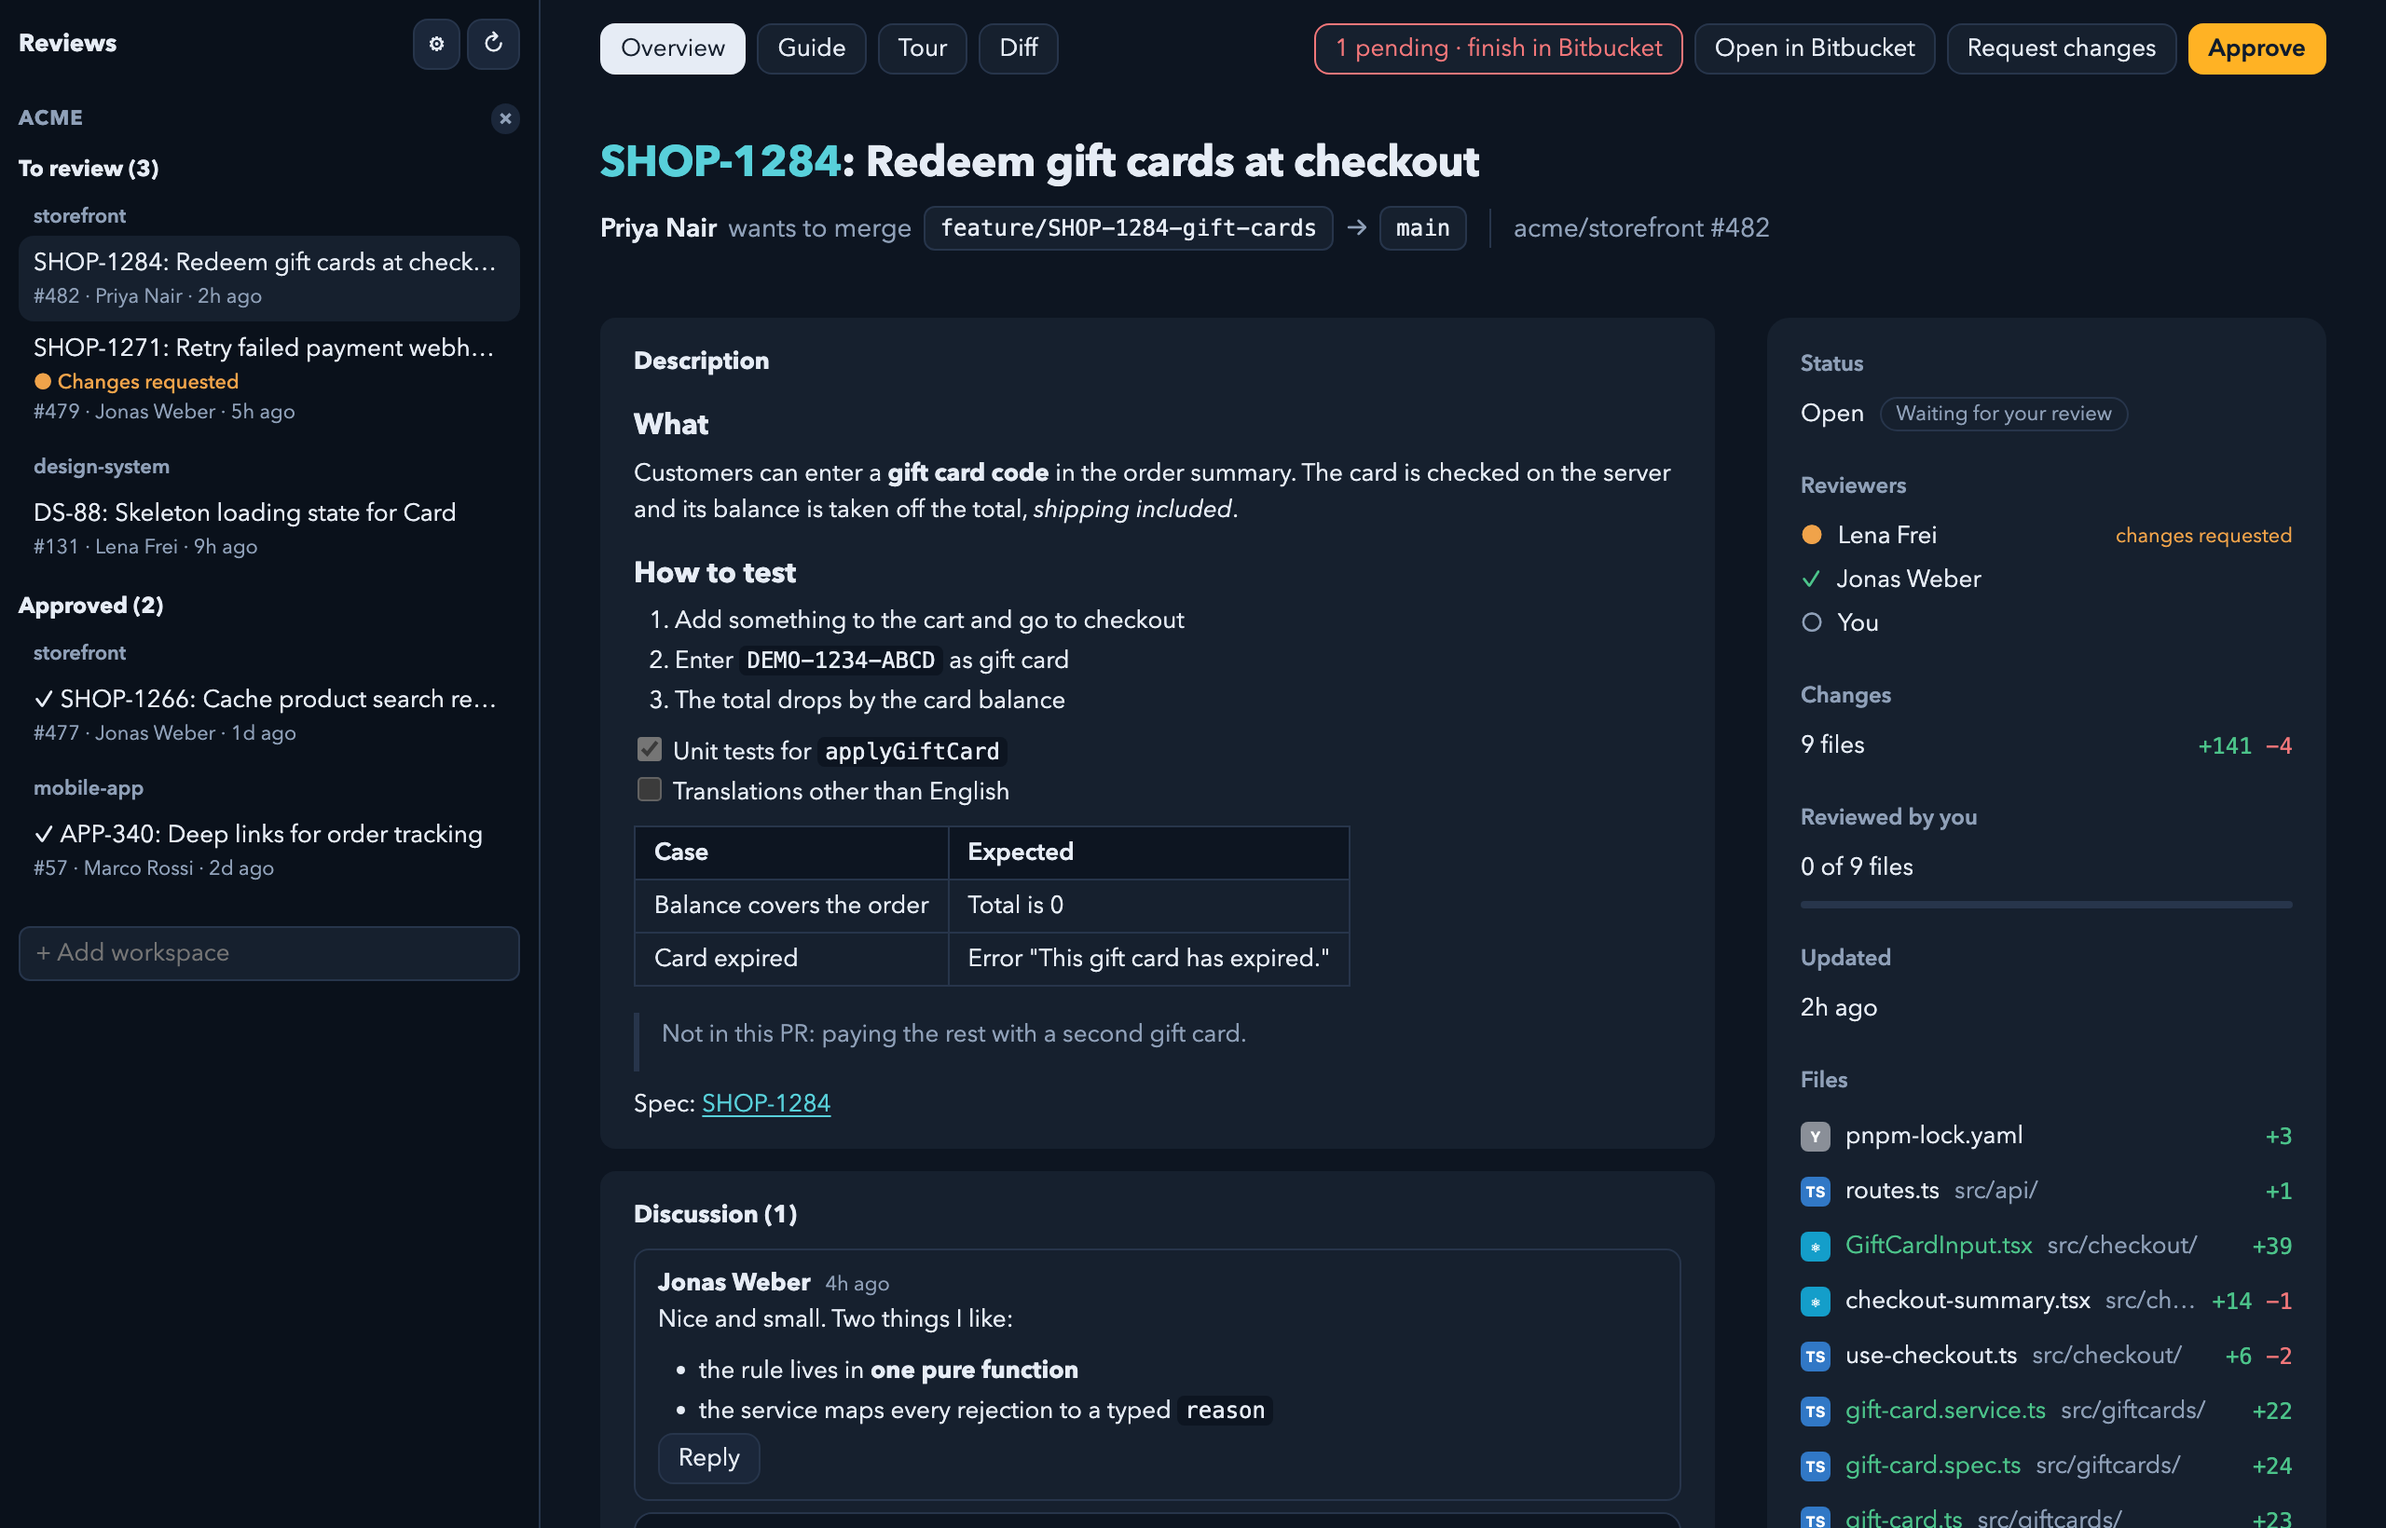
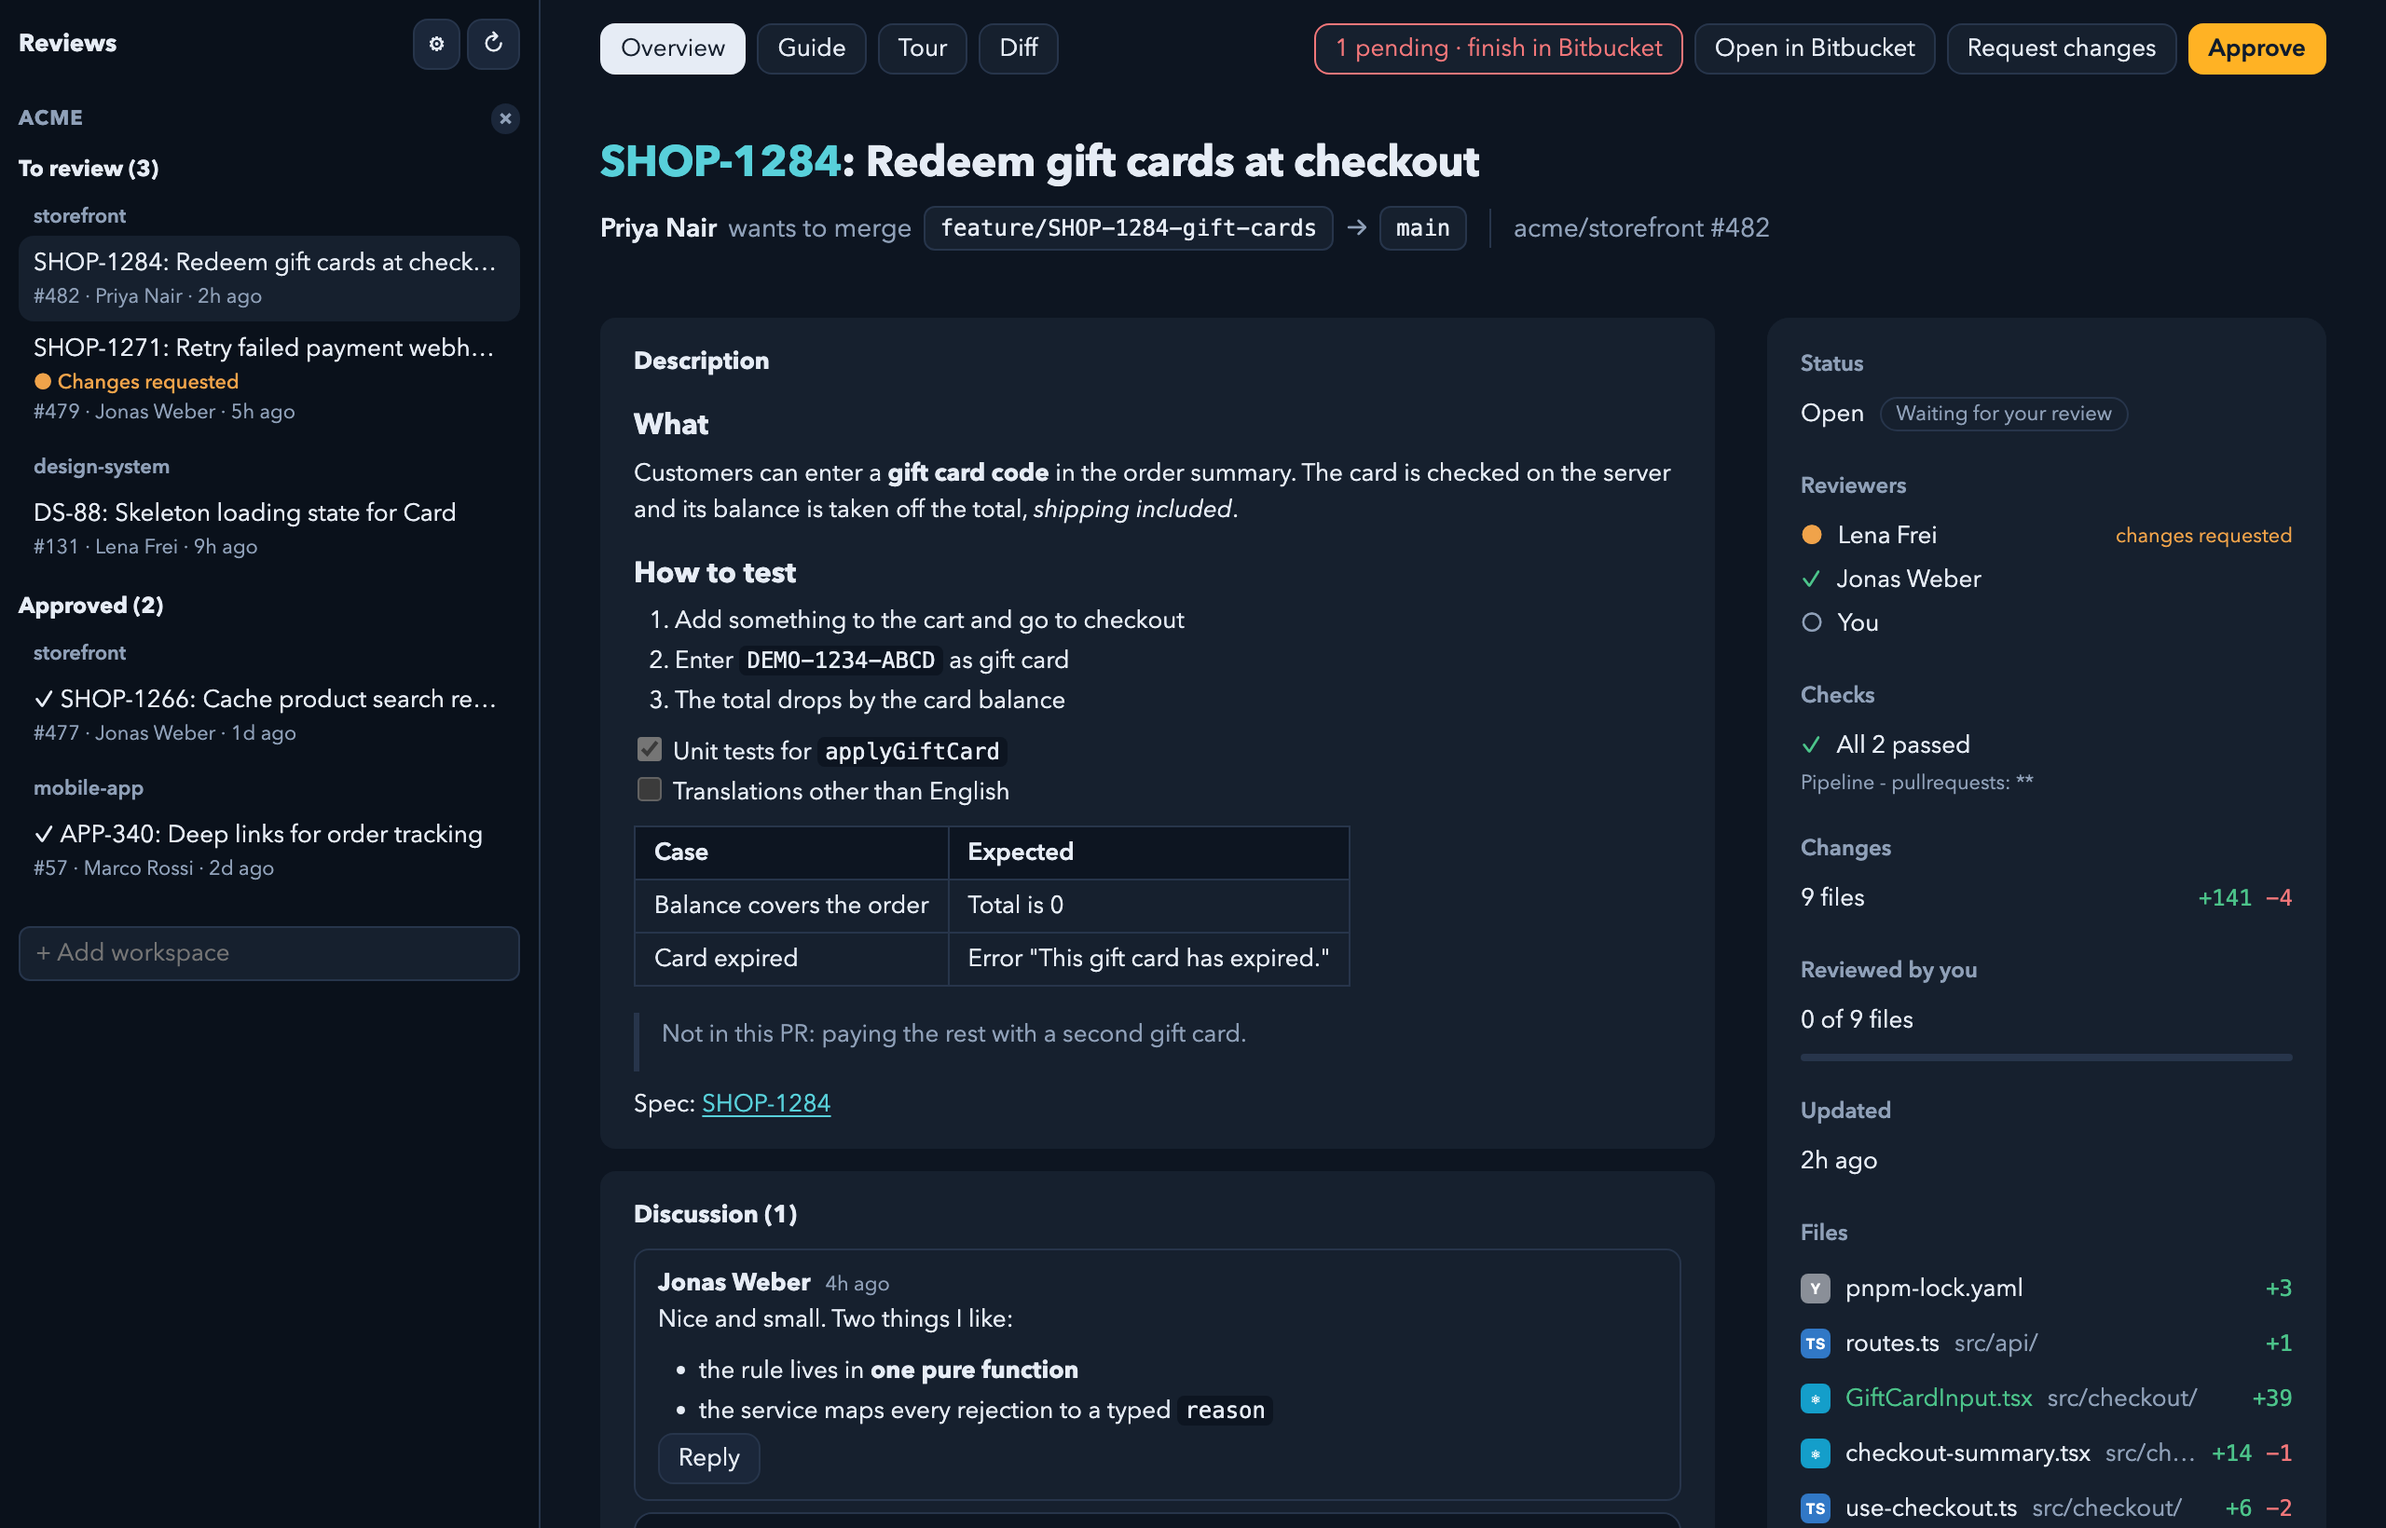
Overview fills the width, shows build checks; toolbar wraps

Changed region(s): [[0.75, 0.4665, 0.9688, 1.0], [0.9375, 0.9951, 0.9688, 1.0], [0.8125, 0.4976, 0.8438, 0.5287]]

diff --git a/ui/app.js b/ui/app.js
@@ -457,7 +457,7 @@ function threadEl(root, comments, post, lang) {
 }
 
 // The facts about a PR, in a column beside the overview: where it stands, who reviews it, how big it is, what it touches.
-function infoEl(pr, files, reviewed, mine, openFile) {
+function infoEl(pr, files, reviewed, mine, checks, openFile) {
   const order = { changes_requested: 0, approved: 1 };
   // Reviewers, plus anyone else who approved or asked for changes.
   const people = (pr.participants ?? []).filter((p) => (p.role === 'REVIEWER' || p.state) && p.user?.uuid !== pr.author?.uuid).sort((a, b) => (order[a.state] ?? 2) - (order[b.state] ?? 2));
@@ -469,11 +469,22 @@ function infoEl(pr, files, reviewed, mine, openFile) {
   const sum = (k) => files.reduce((n, f) => n + f[k], 0);
   const done = files.filter((f) => reviewed.has(f.path)).length;
   const part = (label, ...kids) => h('section', {}, h('h4', { textContent: label }), kids);
+  // Build checks come with the inbox, as counts plus the latest one. Failed beats running beats passed.
+  const build = !checks?.total
+    ? null
+    : checks.failed + checks.stopped > 0
+      ? ['✕', `${checks.failed + checks.stopped} of ${checks.total} failed`, 'minus']
+      : checks.inProgress > 0
+        ? ['◌', `${checks.inProgress} of ${checks.total} running`, 'warn']
+        : checks.successful === checks.total
+          ? ['✓', checks.total === 1 ? 'Passed' : `All ${checks.total} passed`, 'plus']
+          : ['○', `${checks.successful} of ${checks.total} passed`, 'muted'];
   return h(
     'aside',
     { className: 'info' },
     part('Status', h('div', { className: 'who' }, h('span', { textContent: pr.state === 'OPEN' || !pr.state ? 'Open' : pr.state[0] + pr.state.slice(1).toLowerCase() }), yours && h('span', { className: `tag ${yours[1]}`, textContent: yours[0] }))),
     people.length > 0 && part('Reviewers', people.map(person)),
+    build && part('Checks', h('div', { className: 'who' }, h('span', { className: build[2], textContent: build[0] }), h('span', { textContent: build[1] })), checks.latest?.name && h('small', { className: 'latest', title: 'Latest check, as of the last refresh', textContent: checks.latest.name })),
     part('Changes', h('div', { className: 'who' }, h('span', { textContent: `${files.length} file${files.length === 1 ? '' : 's'}` }), h('span', { className: 'stats' }, h('span', { className: 'plus', textContent: `+${sum('added')}` }), ' ', h('span', { className: 'minus', textContent: `−${sum('removed')}` })))),
     part('Reviewed by you', h('div', { className: 'who' }, h('span', { textContent: `${done} of ${files.length} files` })), h('div', { className: 'meter' }, h('i', { style: `width:${files.length ? (done / files.length) * 100 : 0}%` }))),
     part('Updated', h('div', { className: 'who' }, h('span', { textContent: ago(pr.updated_on) }))),
@@ -623,6 +634,8 @@ function fileEl(f, hidden, ctx, only) {
   else show();
   return card;
 }
+
+const barWatch = new ResizeObserver(([entry]) => main.style.setProperty('--bar', `${Math.round(entry.borderBoxSize[0].blockSize)}px`));
 
 function draw(repo, id, data, guide) {
   const { pr, files } = data;
@@ -818,7 +831,7 @@ function draw(repo, id, data, guide) {
           pr.description && h('div', { className: 'box' }, h('h3', { textContent: 'Description' }), rich(pr.description)),
           h('div', { className: 'box' }, h('h3', { textContent: `Discussion (${general.length})` }), general.map((c) => threadEl(c, comments, post)), commentForm((text, pending) => post({ text, pending }))),
         ),
-        infoEl(pr, files, reviewed, mine, (path) => {
+        infoEl(pr, files, reviewed, mine, Object.values(inboxes).flatMap((i) => i.items ?? []).find((i) => i.repo === repo && i.id === id)?.summary?.checks, (path) => {
           tab = 'diff';
           draw(repo, id, data, guide);
           const el = document.getElementById(`f-${path}`);
@@ -847,12 +860,15 @@ function draw(repo, id, data, guide) {
     h(
       'div',
       { className: 'top' },
-      Object.keys(views).map((t) => h('button', { className: 'tab' + (t === tab ? ' active' : ''), textContent: t[0].toUpperCase() + t.slice(1), onclick: () => ((tab = t), draw(repo, id, data, guide)) })),
-      h('span', { className: 'grow' }),
-      pendingCount > 0 && h('button', { className: 'on warn', textContent: `${pendingCount} pending · finish in Bitbucket`, title: 'Pending comments are published when you finish the review in Bitbucket', onclick: () => invoke('open_url', { url: pr.links.html.href }) }),
-      h('button', { textContent: 'Open in Bitbucket', onclick: () => invoke('open_url', { url: pr.links.html.href }) }),
-      h('button', { className: changes ? 'on warn' : '', textContent: changes ? '✗ Changes requested' : 'Request changes', onclick: act(changes ? 'remove-request-changes' : 'request-changes') }),
-      h('button', { className: mine?.approved ? 'on' : 'primary', textContent: mine?.approved ? '✓ Approved' : 'Approve', onclick: act(mine?.approved ? 'unapprove' : 'approve') }),
+      h('div', { className: 'tabs' }, Object.keys(views).map((t) => h('button', { className: 'tab' + (t === tab ? ' active' : ''), textContent: t[0].toUpperCase() + t.slice(1), onclick: () => ((tab = t), draw(repo, id, data, guide)) }))),
+      h(
+        'div',
+        { className: 'acts' },
+        pendingCount > 0 && h('button', { className: 'on warn', textContent: `${pendingCount} pending · finish in Bitbucket`, title: 'Pending comments are published when you finish the review in Bitbucket', onclick: () => invoke('open_url', { url: pr.links.html.href }) }),
+        h('button', { textContent: 'Open in Bitbucket', onclick: () => invoke('open_url', { url: pr.links.html.href }) }),
+        h('button', { className: changes ? 'on warn' : '', textContent: changes ? '✗ Changes requested' : 'Request changes', onclick: act(changes ? 'remove-request-changes' : 'request-changes') }),
+        h('button', { className: mine?.approved ? 'on' : 'primary', textContent: mine?.approved ? '✓ Approved' : 'Approve', onclick: act(mine?.approved ? 'unapprove' : 'approve') }),
+      ),
     ),
     h('h1', {}, title),
     // Always visible: who wants to merge what into where.
@@ -868,6 +884,9 @@ function draw(repo, id, data, guide) {
     ),
     views[tab](),
   );
+  // The toolbar may wrap onto several lines; everything that sticks below it follows its real height.
+  barWatch.disconnect();
+  barWatch.observe(main.querySelector('.top'));
   main.scrollTop = 0;
 }
 

diff --git a/ui/style.css b/ui/style.css
@@ -47,8 +47,11 @@ a { color: var(--accent); cursor: pointer; text-decoration: none; }
 #main { flex: 1; overflow-y: auto; padding: 0 32px 120px; min-width: 0; background: var(--page); }
 /* The toolbar stays put while scrolling; --bar is its height, which the sticky file headers and guide column sit below. */
 #main { --bar: 52px; }
-.top { display: flex; gap: 6px; align-items: center; height: var(--bar); margin: 0 -32px 18px; padding: 0 32px; position: sticky; top: 0; z-index: 4; background: var(--page); }
-.top button { background: var(--bg); }
+/* Tabs on the left, actions on the right. Too narrow for one line: the actions move below, buttons never break inside. */
+.top { display: flex; flex-wrap: wrap; gap: 6px; align-items: center; min-height: 52px; margin: 0 -32px 18px; padding: 10px 32px; position: sticky; top: 0; z-index: 4; background: var(--page); }
+.top .tabs, .top .acts { display: flex; flex-wrap: wrap; gap: 6px; }
+.top .acts { margin-left: auto; justify-content: flex-end; }
+.top button { background: var(--bg); white-space: nowrap; }
 .top button.primary { background: var(--amber); }
 .top .tab.active { background: var(--text); border-color: var(--text); color: var(--bg); }
 .grow { flex: 1; }
@@ -295,3 +298,5 @@ form.comment .foot small { margin-left: auto; }
 .info .meter { height: 4px; border-radius: 99px; background: var(--line); margin-top: 6px; overflow: hidden; }
 .info .meter i { display: block; height: 100%; border-radius: 99px; background: var(--accent); }
 @media (max-width: 1100px) { .over { grid-template-columns: minmax(0, 1fr); } .info { position: static; max-height: none; } }
+.over .box, .over .lead, .over .thread, .over form.comment { max-width: none; }
+.info .latest { display: block; overflow: hidden; text-overflow: ellipsis; white-space: nowrap; }
